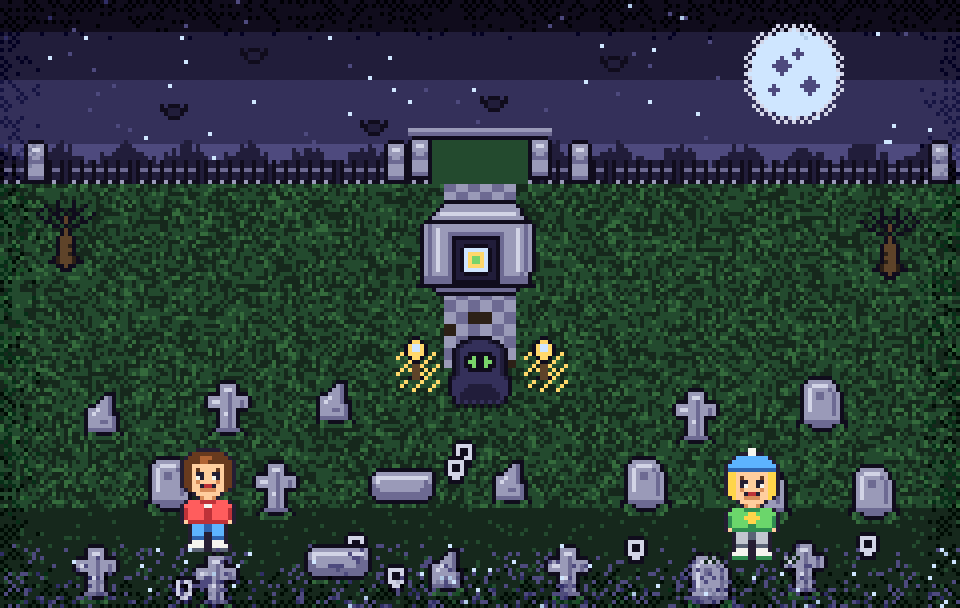
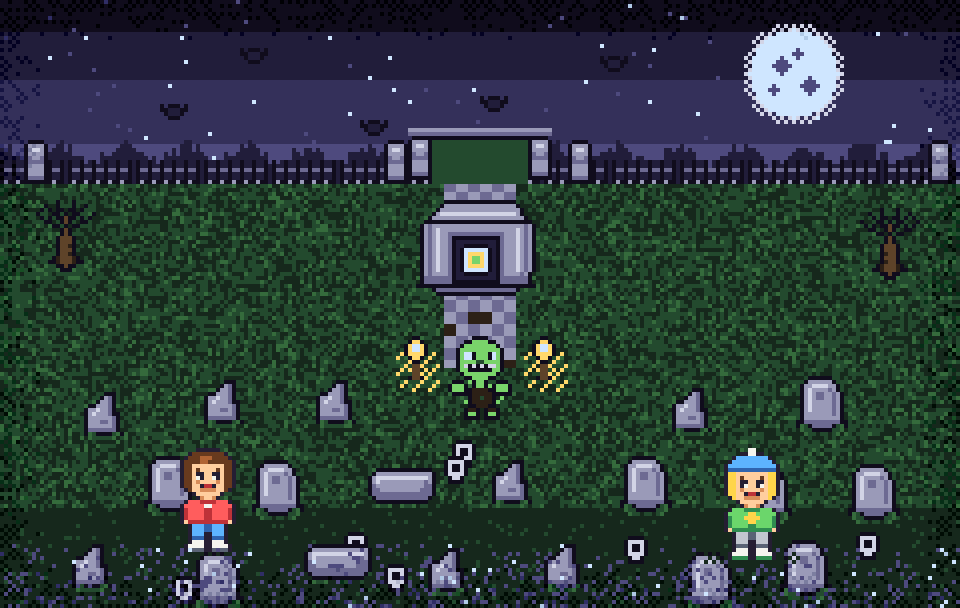
Graveyard: redesign monster as a proper zombie; remove all crosses
- MONSTER reworked from a hooded reaper into a green shambling zombie
  (mismatched dead eyes, jagged teeth, outstretched arms, torn clothes).
- Removed cross gravestones everywhere: game arena, static scene art, and the
  game-select tile icon now use headstones/broken stones/tombs only.

Claude-Session: https://claude.ai/code/session_01BmHu9ZjHHfJoGBLXT33Kpc

diff --git a/game/data.js b/game/data.js
@@ -757,24 +757,27 @@ window.GAME_DATA = {
 "E": "#79d36a"
 },
 "monster": [
-"......KKKKKK......",
-"....KKNVVVVNKK....",
-"...KNVVVVVVVVNK...",
-"..KNVVVVVVVVVVNK..",
-"..KNVVKKKKKKVVNK..",
-"..KNVKKEKKEKKVNK..",
-"..KNVKEEKKEEKVNK..",
-"..KNVKKEKKEKKVNK..",
-"..KNVVKKKKKKVVNK..",
-"..KNVVVVVVVVVVNK..",
-".KNVVVVVVVVVVVVNK.",
-".KVVVVVVVVVVVVVVK.",
-".KVVVVNNNNNNVVVVK.",
-".KVVVNNNNNNNNVVVK.",
-".KVVNNNNNNNNNNVVK.",
-"..KVNNNNNNNNNNVK..",
-"..KVNVNVNVNVNVNK..",
-"...K.K.K.K.K.K...."
+"......KKKK......",
+"....KKEEEEKK....",
+"...KEEEEEEEEK...",
+"..KEEEEEEEEEEK..",
+"..KEWWKEEEKWEK..",
+"..KEWWKEEEKWEK..",
+"..KEEEEggEEEEK..",
+"..KELKLKLKLLEK..",
+"..KEEKKKKKKEEK..",
+"...KEEEEEEEEK...",
+"....KKEEEEKK....",
+".KKK..KEEK..KKK.",
+"KEEEK.KEEK.KEEEK",
+"KEEEKKDDDDKKEEEK",
+".KKKKKDDDDDKKKKK",
+".....KDDgDDK....",
+".....KDDDDDK....",
+".....KKDDDKK....",
+"....KDDK.KDDK...",
+"....KEEK.KEEK...",
+"....KKKK.KKKK..."
 ],
 "crypt": [
 "..........KKKKKKKKKKKKKKKKKK..........",
@@ -818,23 +821,6 @@ window.GAME_DATA = {
 "KmgKSSSSSKgmK",
 ".mggKKKKKggm.",
 "..mgg gg gm.."
-],
-"cross": [
-"....KKKK....",
-"...KMMMMK...",
-"...KMLLMK...",
-".KKKMMSMKKK.",
-"KMMMMMSMMMMK",
-"KMLLMMSMMSMK",
-"KMMMMMSMMSMK",
-".KKKMMSMKKK.",
-"...KMLSMK...",
-"...KMMSMK...",
-"...KMMSMK...",
-"...KMMSMK...",
-"..KSSSSSSK..",
-".KmgKKKKgmK.",
-"..mgggggm..."
 ],
 "broken": [
 ".....KKK..",

diff --git a/game/graveyard_game.js b/game/graveyard_game.js
@@ -25,7 +25,7 @@
     g.translate(s.w, 0); g.scale(-1, 1); g.drawImage(s.canvas, 0, 0); return { canvas: c, w: s.w, h: s.h };
   }
   const GP = GY.palette;
-  const S = {}; for (const k of ["monster", "crypt", "headstone", "cross", "broken", "tomb", "tree", "fence", "pillar", "lantern", "skull", "bat"]) S[k] = build(GY[k], GP);
+  const S = {}; for (const k of ["monster", "crypt", "headstone", "broken", "tomb", "tree", "fence", "pillar", "lantern", "skull", "bat"]) S[k] = build(GY[k], GP);
   const fight = {}; D.roster.forEach(c => { fight[c.name] = build(c.rows, D.palette); fight[c.name + "_f"] = flip(build(c.rows, D.palette)); });
   const FONT = D.font;
 
@@ -59,9 +59,9 @@
   }
 
   const STONES = [
-    ["cross", 150, 250], ["headstone", 300, 232], ["broken", 660, 236], ["headstone", 832, 258],
-    ["tomb", 235, 392], ["headstone", 720, 372], ["cross", 850, 446],
-    ["headstone", 150, 486], ["broken", 372, 520], ["tomb", 560, 522], ["cross", 770, 512],
+    ["broken", 150, 250], ["headstone", 300, 232], ["tomb", 660, 236], ["headstone", 832, 258],
+    ["tomb", 235, 392], ["headstone", 720, 372], ["broken", 850, 446],
+    ["headstone", 150, 486], ["broken", 372, 520], ["tomb", 560, 522], ["headstone", 770, 512],
   ];
   const crypt = { cx: 480, by: 224 };
   const spawn = { mon: { x: 480, y: 350 }, p1: { x: 110, y: 512 }, p2: { x: 850, y: 512 } };

diff --git a/game/gameselect.js b/game/gameselect.js
@@ -26,7 +26,7 @@
   const spr = {}; D.roster.forEach(c => spr[c.name] = buildSprite(c.rows));
   const ballS = buildSprite(D.ball), wUp = buildSprite(D.wingUp), wUpL = flip(wUp);
   const GYP = D.graveyard.palette;
-  const gMon = buildSprite(D.graveyard.monster, GYP), gHead = buildSprite(D.graveyard.headstone, GYP), gCross = buildSprite(D.graveyard.cross, GYP);
+  const gMon = buildSprite(D.graveyard.monster, GYP), gHead = buildSprite(D.graveyard.headstone, GYP), gBroken = buildSprite(D.graveyard.broken, GYP);
   const FONT = D.font;
 
   function tW(s, sc, sp = 1) { return (s.length * (5 + sp) - sp) * sc; }
@@ -115,7 +115,7 @@
     // moon
     ctx.fillStyle = "#cfe6ff"; ctx.beginPath(); ctx.arc(r.x + r.w - 30, r.y + 28, 8, 0, 7); ctx.fill();
     fitDraw(gHead, r.x + 18, r.y + 30, 34, 56);
-    fitDraw(gCross, r.x + r.w - 56, r.y + 30, 34, 56);
+    fitDraw(gBroken, r.x + r.w - 56, r.y + 30, 34, 56);
     fitDraw(gMon, r.x + r.w / 2 - 28, r.y + 22, 56, 64);
   }
   function tile(i, t) {

diff --git a/art/graveyard.py b/art/graveyard.py
@@ -223,25 +223,29 @@ KKNNNKK
 ..KKK..
 """)
 
+# MONSTER = a shambling zombie (green skin, mismatched eyes, teeth, arms out)
 MONSTER = spr("""
-......KKKKKK......
-....KKNVVVVNKK....
-...KNVVVVVVVVNK...
-..KNVVVVVVVVVVNK..
-..KNVVKKKKKKVVNK..
-..KNVKKEKKEKKVNK..
-..KNVKEEKKEEKVNK..
-..KNVKKEKKEKKVNK..
-..KNVVKKKKKKVVNK..
-..KNVVVVVVVVVVNK..
-.KNVVVVVVVVVVVVNK.
-.KVVVVVVVVVVVVVVK.
-.KVVVVNNNNNNVVVVK.
-.KVVVNNNNNNNNVVVK.
-.KVVNNNNNNNNNNVVK.
-..KVNNNNNNNNNNVK..
-..KVNVNVNVNVNVNK..
-...K.K.K.K.K.K....
+......KKKK......
+....KKEEEEKK....
+...KEEEEEEEEK...
+..KEEEEEEEEEEK..
+..KEWWKEEEKWEK..
+..KEWWKEEEKWEK..
+..KEEEEggEEEEK..
+..KELKLKLKLLEK..
+..KEEKKKKKKEEK..
+...KEEEEEEEEK...
+....KKEEEEKK....
+.KKK..KEEK..KKK.
+KEEEK.KEEK.KEEEK
+KEEEKKDDDDKKEEEK
+.KKKKKDDDDDKKKKK
+.....KDDgDDK....
+.....KDDDDDK....
+.....KKDDDKK....
+....KDDK.KDDK...
+....KEEK.KEEK...
+....KKKK.KKKK...
 """)
 
 if __name__ == "__main__":

diff --git a/art/export_json.py b/art/export_json.py
@@ -17,7 +17,7 @@ gy_palette = {k: (None if v is None else "#%02x%02x%02x" % v) for k, v in GY.PAL
 graveyard = {
     "palette": gy_palette,
     "monster": GY.MONSTER, "crypt": GY.CRYPT, "headstone": GY.HEADSTONE,
-    "cross": GY.CROSS, "broken": GY.BROKEN, "tomb": GY.TOMB, "tree": GY.DEAD_TREE,
+    "broken": GY.BROKEN, "tomb": GY.TOMB, "tree": GY.DEAD_TREE,
     "fence": GY.FENCE, "pillar": GY.PILLAR, "lantern": GY.LANTERN,
     "skull": GY.SKULL, "bat": GY.BAT,
 }

diff --git a/art/graveyard_scene.py b/art/graveyard_scene.py
@@ -104,7 +104,7 @@ props.append((70, lambda: blit(img, GY.DEAD_TREE, 8, 50, flip=True)))
 props.append((72, lambda: blit(img, GY.DEAD_TREE, 214, 52)))
 
 # tombstone field (avoid the central path & crypt)
-stones = [GY.HEADSTONE, GY.HEADSTONE, GY.CROSS, GY.CROSS, GY.BROKEN, GY.TOMB]
+stones = [GY.HEADSTONE, GY.HEADSTONE, GY.HEADSTONE, GY.BROKEN, GY.BROKEN, GY.TOMB]
 plots_y = [96, 116, 136]
 for ri, py in enumerate(plots_y):
     for cx in range(18, W - 18, 30):
